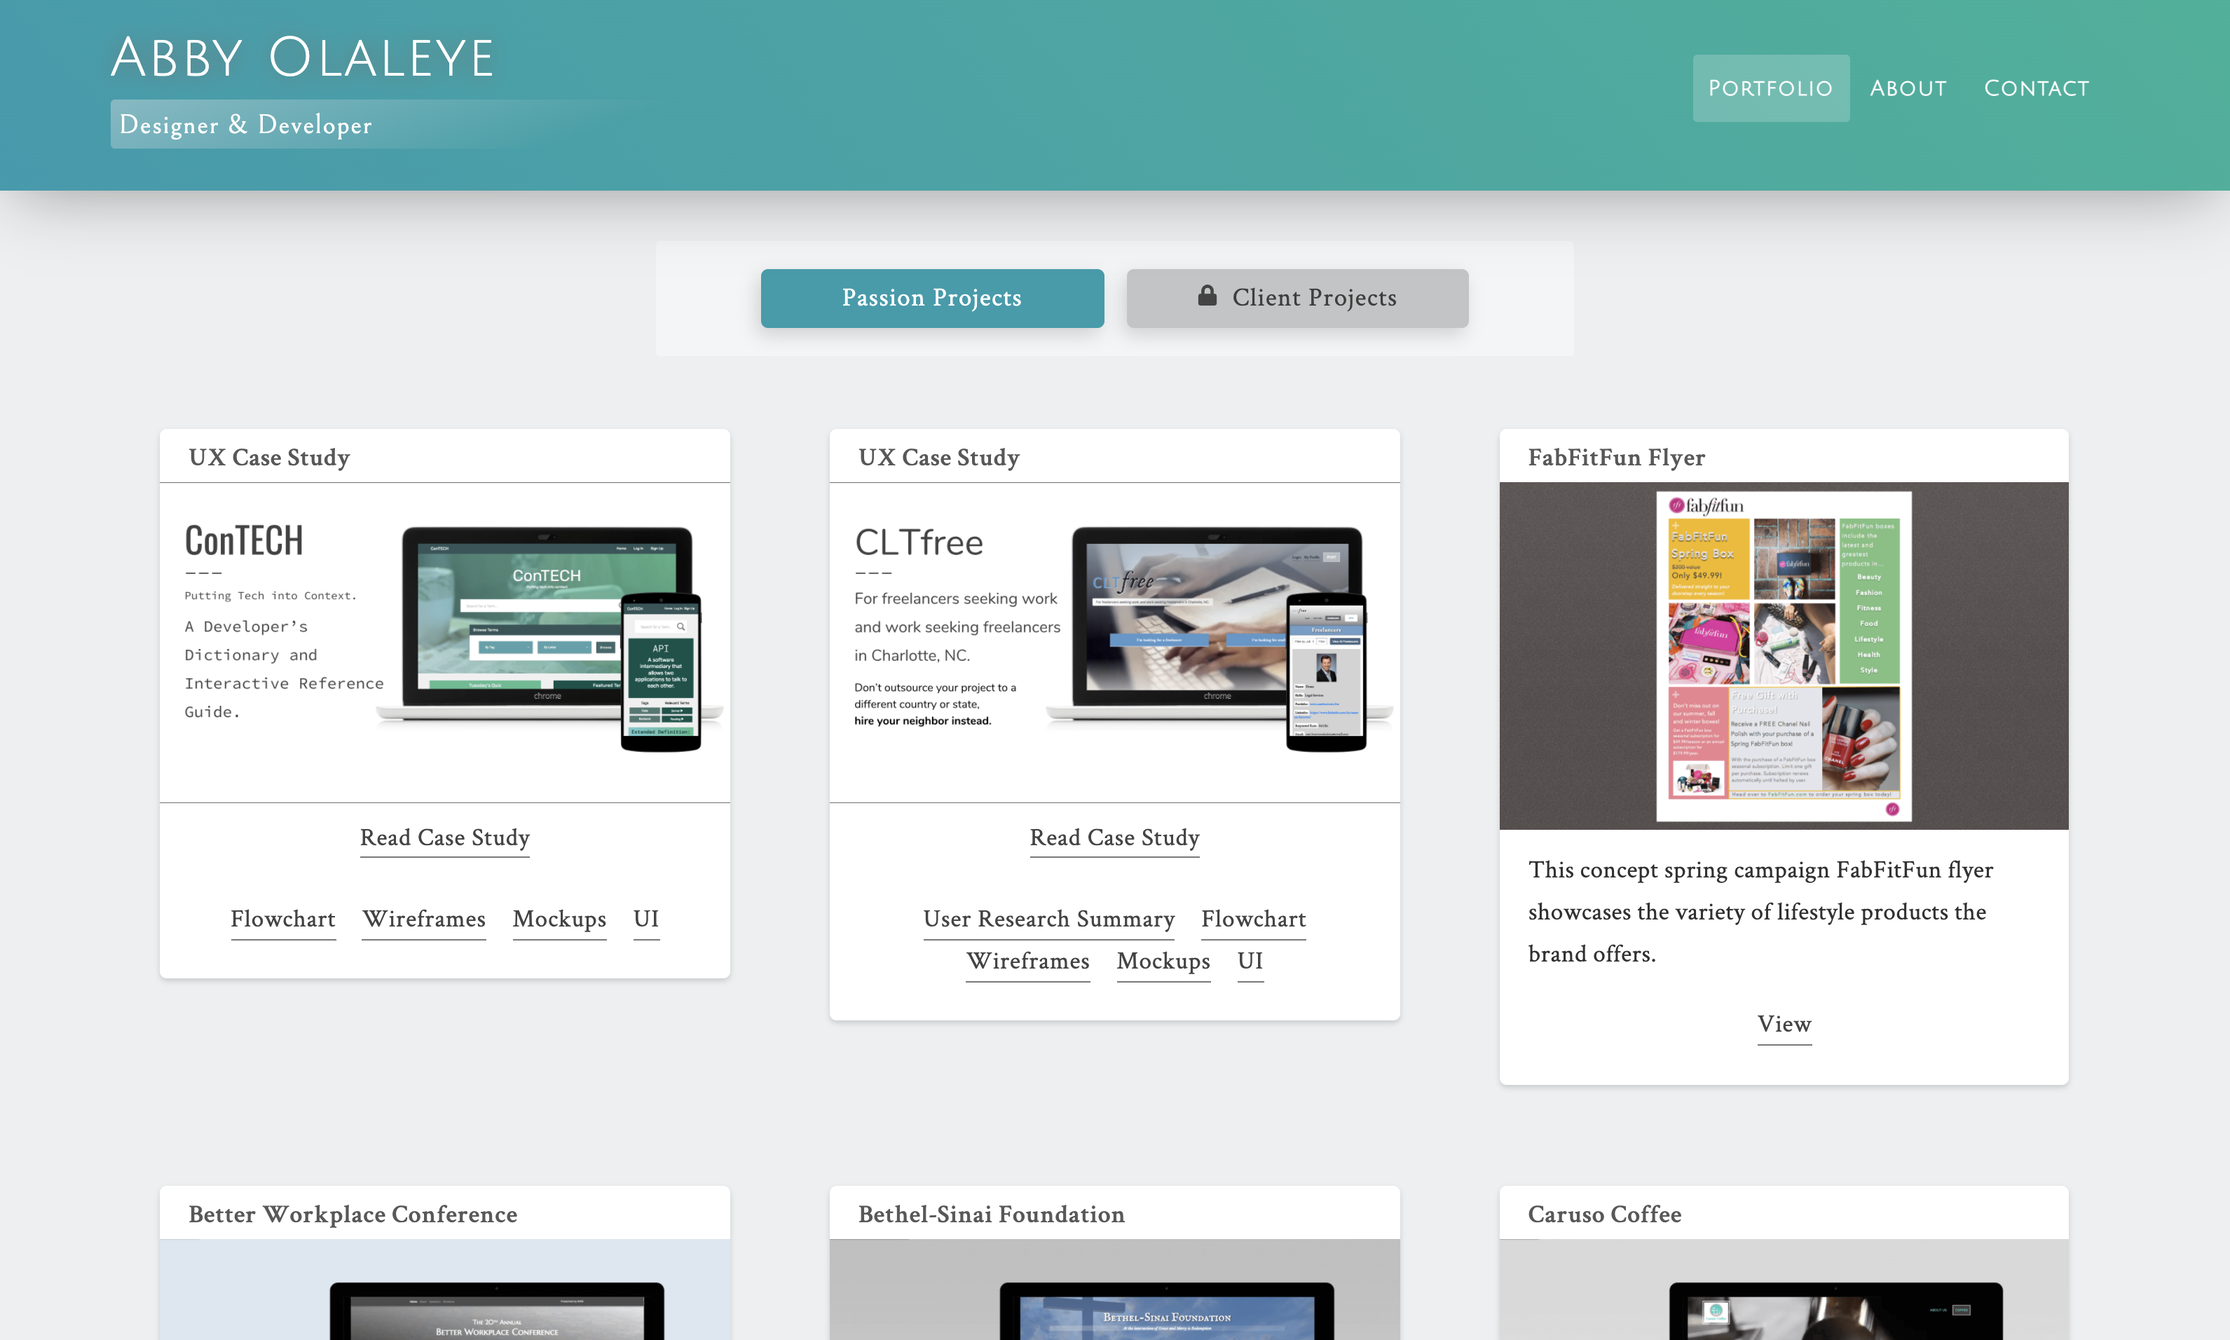
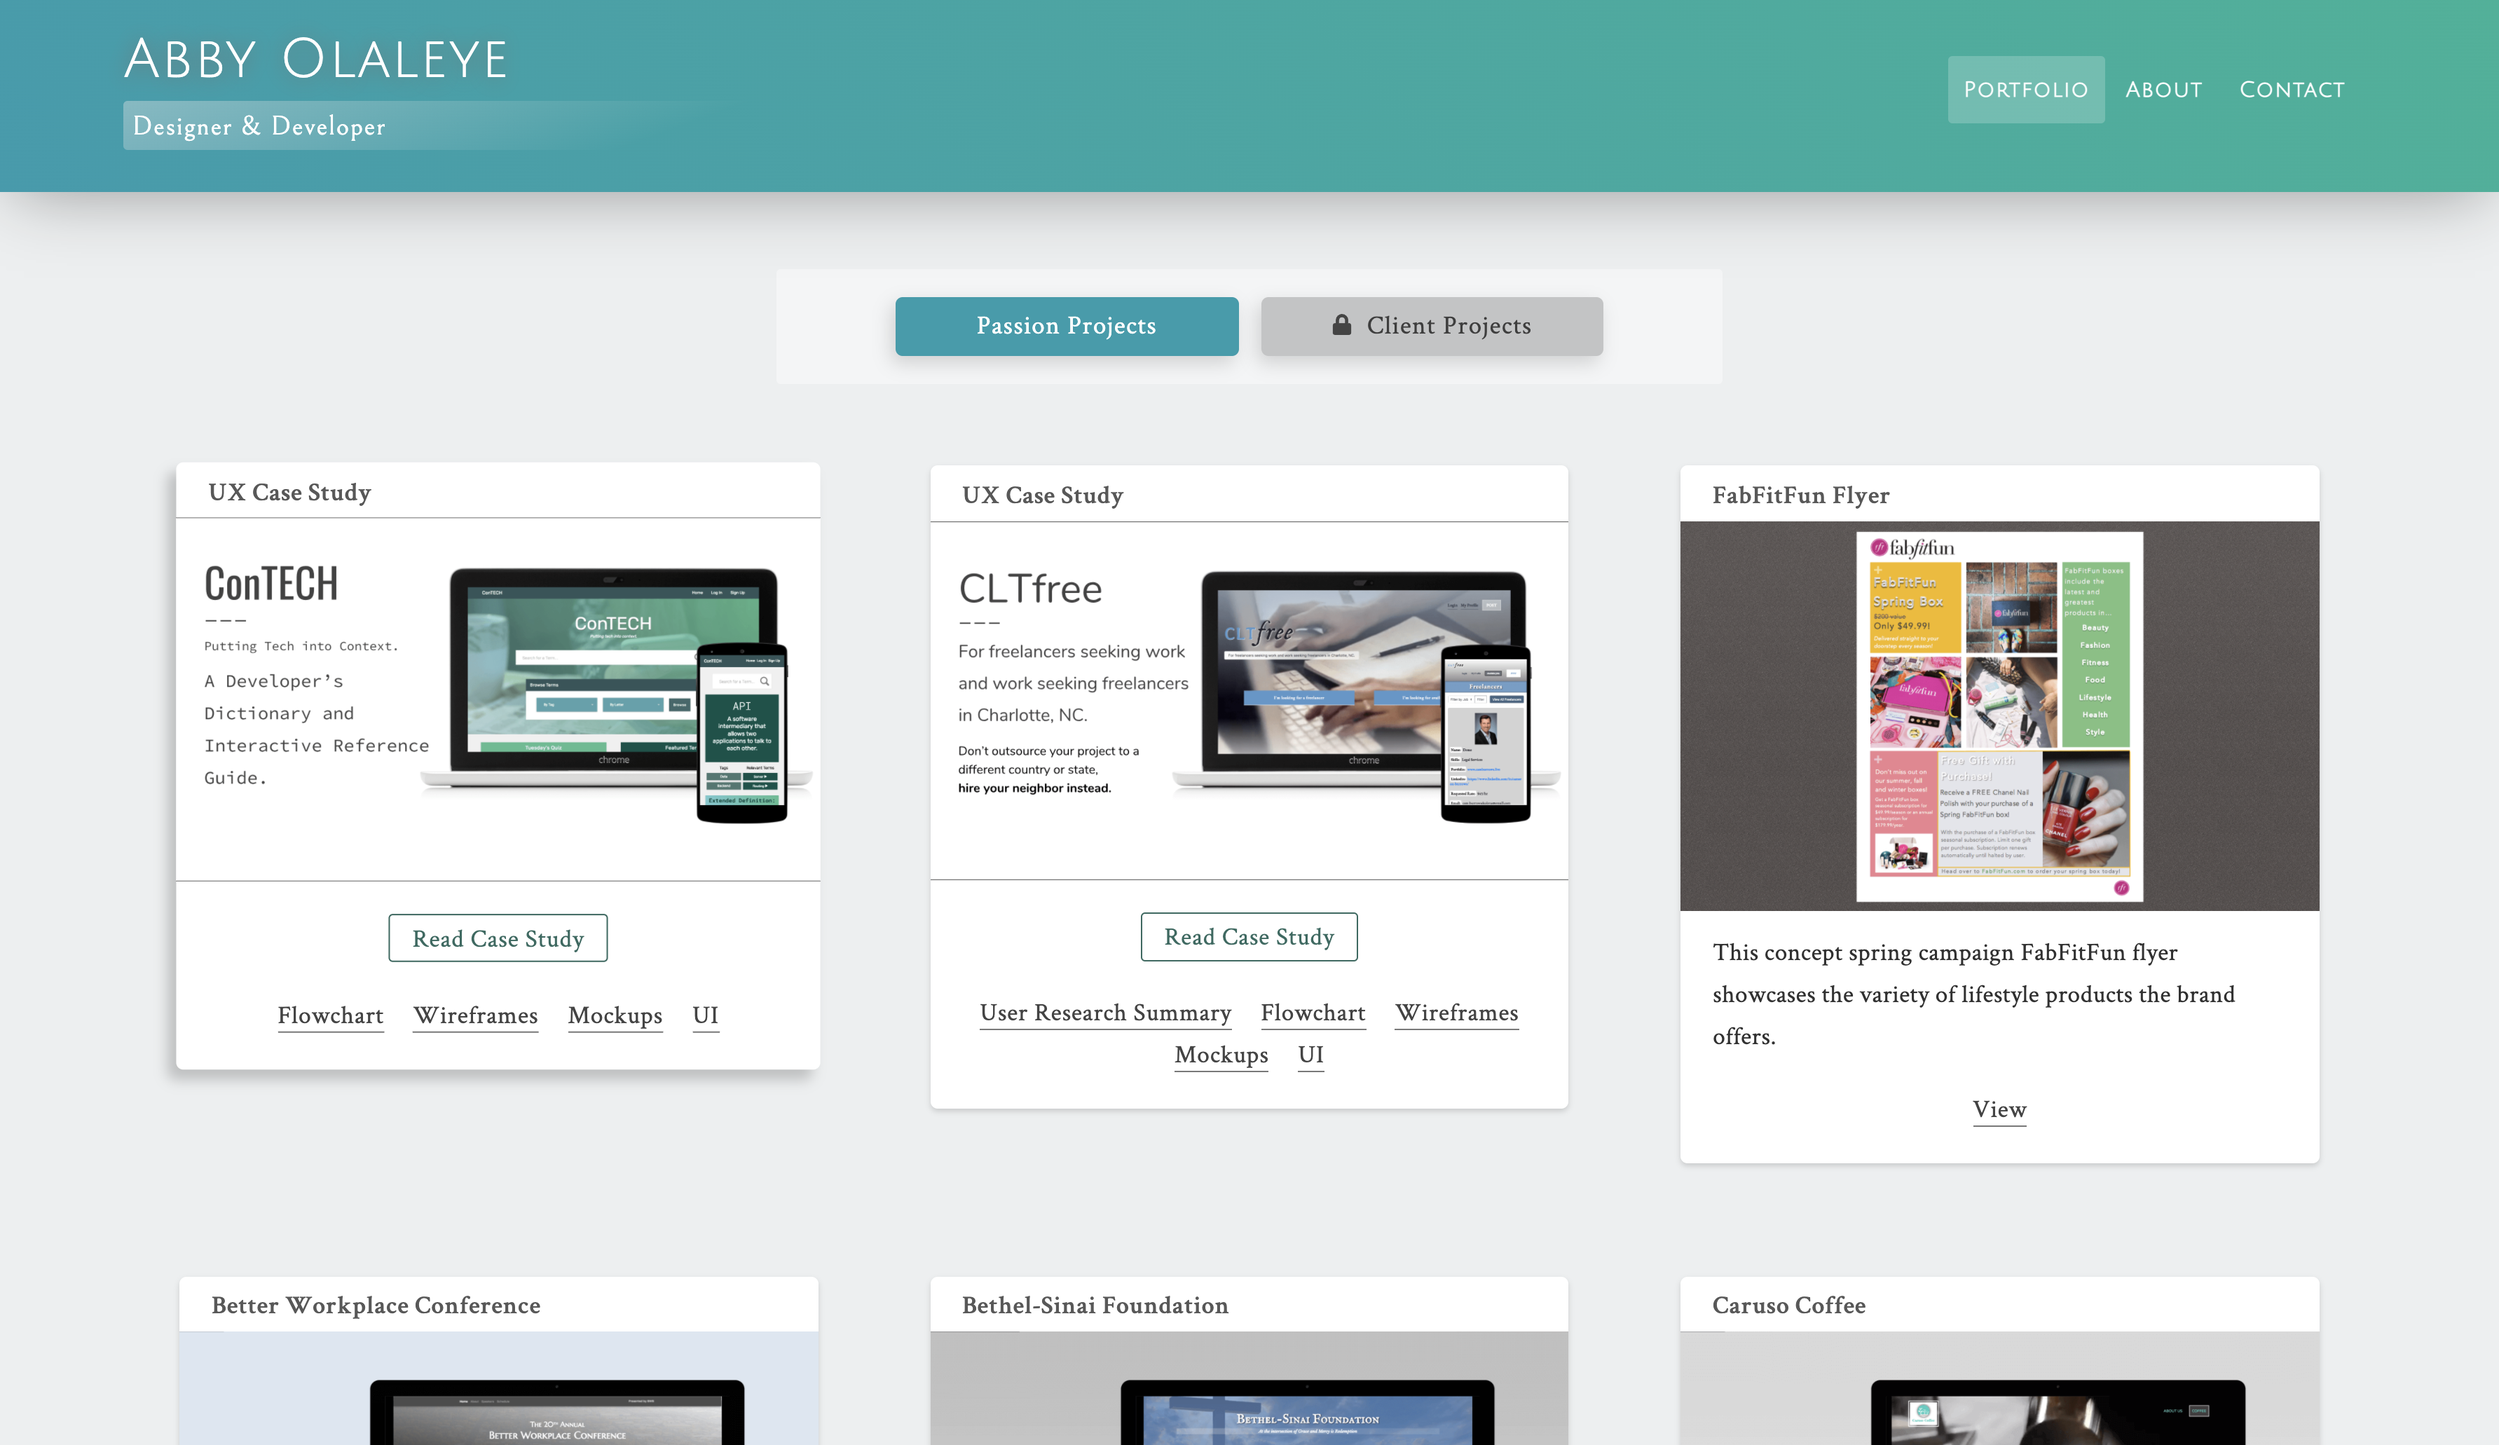
update content

diff --git a/css/main.css b/css/main.css
@@ -277,7 +277,7 @@ PAGE: PORTFOLIO
 .live-links {
   text-align: center;
   /* background: #8e8e8e; */
-  padding: 0 1rem 7%;
+  padding: 0 1rem 1.5rem;
   border-radius: 0 0 5px 5px;
 }
 
@@ -291,8 +291,32 @@ PAGE: PORTFOLIO
   letter-spacing: .5px;
   display: inline;
   transition: all .2s ease-in-out;
-  padding-bottom: 1%;
+  padding-bottom: 1px;
   /* text-shadow: -1px 1px 0px #e6e6e6; */
+}
+
+.read-case-study {
+  margin: 1rem 0 0;
+}
+
+.read-case-study h3 {
+  /* border: 1px solid #276257;
+  color: #1b443e;
+  background: #e6f1ef; */
+  border: 1px solid #306a61;
+  color: #306a61;
+  /* border: none !important;
+  background-color: #377c70;
+  color: white !important; */
+  transition-duration: .2s;
+  border-radius: 3px;
+  padding: .25rem 1rem .35rem;
+}
+
+.read-case-study h3:hover {
+  border-color: #377c70;
+  background-color: #377c70;
+  color: white !important;
 }
 
 /* .ux .live-links {
@@ -308,8 +332,10 @@ PAGE: PORTFOLIO
 } */
 
 .live-site h3:hover {
-  color: #3f9045;
-  border-bottom-color: #3f9045;
+  /* color: #3f9045;
+  border-bottom-color: #3f9045; */
+  color: #306a61;
+  border-bottom-color: #306a61;
   /* font-weight: bold; */
 }
 
@@ -1491,10 +1517,6 @@ Responsive Layout
     margin: 0 .5rem;
     /* border: 2px solid white; */
   }
-/* 
-  .read-case-study {
-    min-height: 4rem;
-  } */
 
 }
 
